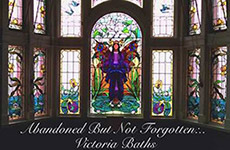
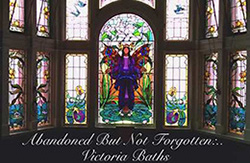
Finished Blog pages / optimised images.

diff --git a/index.html b/index.html
@@ -87,7 +87,7 @@
 
 <div class="divwrapper2">
 	<article id="skillset" class="div66width">
-		<div style="width:100%;">
+		<div>
 			<h2>Skill Set</h2>
 		</div>
 		
@@ -160,70 +160,121 @@
 
 <div class="divwrapper1">
 <article id="mywork" class="div66width"><!-- Start My Work -->
-		<div style="width:100%;">
+		<div>
 		<h2>My Work</h2>
 		</div>
 				
 				<div class="div33width">
 				<h4>Creative Digital Media (Documentary) - 2013</h4>
-				<a href ="https://www.youtube.com/watch?v=0nk_Ha1VQQA"><img src="images/video1.jpg" height="180" width="250" alt="A picture of the 'Lost but not forgotten' video." title="Documentary - Victoria Baths" /> </a>
-				</div>
-				
+				<a href ="https://www.youtube.com/watch?v=0nk_Ha1VQQA"><img src="images/mywork/video1.jpg"  alt="A picture of the 'Lost but not forgotten' video." title="Documentary - Victoria Baths" /> </a>
+				</div>				
 				<div class="div33width">
 				<h4>Creative Digital Media (Documentary) - 2014</h4>
-				<a href ="https://www.youtube.com/watch?v=aJigK_WToX8"><img src="images/video2.jpg" height="180" width="250" alt="A picture of the 'Life Disconnected' video." title="Documentary - Life Disconnected." /> </a>
+				<a href ="https://www.youtube.com/watch?v=aJigK_WToX8"><img src="images/mywork/video2.jpg"  alt="A picture of the 'Life Disconnected' video." title="Documentary - Life Disconnected." /> </a>
 				</div>
 				<div class="div33width">
 				<h4>Creative Digital media (Image Editing) - 2015</h4>
-				<a href ="http://mosesmartin.co.uk/uniwork/cdmpacw2/"><img src="images/cdmpacw2.jpg" height="180" width="250" alt="A surrealist art piece, create by Moses Martin" title="Creative Digital Media 2015" /> </a>
+				<a href ="http://mosesmartin.co.uk/uniwork/cdmpacw2/"><img src="images/mywork/cdmpacw2.jpg"  alt="A surrealist art piece, create by Moses Martin" title="Creative Digital Media 2015" /> </a>
 				</div>
 				<div class="div33width">
 				<h4>Developing Infocomms (Info Website) - 2015</h4>
-				<a href ="http://mosesmartin.co.uk/uniwork/dip/"><img src="images/dip.jpg" height="180" width="250" alt="A Screenshot of My Developing InfoComms Project I helped create" title="Developing Information Communications 2015" /> </a>
+				<a href ="http://mosesmartin.co.uk/uniwork/dip/"><img src="images/mywork/dip.jpg"  alt="A Screenshot of My Developing InfoComms Project I helped create" title="Developing Information Communications 2015" /> </a>
 				</div>
 				<div class="div33width">
 				<h4>Web Development Project (Course Information) - 2015</h4>
-				<a href ="http://mosesmartin.co.uk/uniwork/webdev/"><img src="images/webdev1.jpg" height="180" width="250" alt="A Screenshot of My Web Development project I coded." title="Website Development 2015" /> </a>
+				<a href ="http://mosesmartin.co.uk/uniwork/webdev/"><img src="images/mywork/webdev1.jpg"  alt="A Screenshot of My Web Development project I coded." title="Website Development 2015" /> </a>
 				</div>
 				<div class="div33width">
 				<h4>SQL Database Website With Login</h4>
-				<a href ="http://mosesmartin.co.uk/uniwork/sqlwebsite"><img src="images/sql.jpg" height="180" width="250" alt="A Screenshot of My Web Development project I coded." title="Website Development 2015" /> </a>
+				<a href ="http://mosesmartin.co.uk/uniwork/sqlwebsite"><img src="images/mywork/sql.jpg"  alt="A Screenshot of My Web Development project I coded." title="Website Development 2015" /> </a>
 				</div>
 				<div class="div33width">
 				<h4>Advanced Propulsion Centre</h4>
-				<a href ="http://mosesmartin.co.uk/freelance/apc"><img src="images/apc.jpg" height="180" width="250" alt="A Screenshot of My Web Development project I coded." title="Website Development 2015" /> </a>
+				<a href ="http://mosesmartin.co.uk/freelance/apc"><img src="images/mywork/apc.jpg"  alt="A Screenshot of My Web Development project I coded." title="Website Development 2015" /> </a>
 				</div>
 				<div class="div33width">
 				<h4>EMS Piano - Manchester</h4>
-				<a href ="http://emspianomanchester.co.uk/"><img src="images/emspiano.jpg" height="180" width="250" alt="A Screenshot of My Web Development project I coded." title="Website Development 2015" /> </a>
+				<a href ="http://emspianomanchester.co.uk/"><img src="images/mywork/emspiano.jpg"  alt="A Screenshot of My Web Development project I coded." title="Website Development 2015" /> </a>
 				</div>
 				<div class="clear"></div>
 </article>
 </div>
 
+<!-- Blog -->
+
 <div class="divwrapper2">
 <article id="blog" class="div66width">
-	<div style="width:100%;">
-		<h2>Blog</h2>
+	<div>
+		<h2>Blog Posts</h2>
 	</div>
 	<div class="blogflex">
-		<div class="blogcell">
+		<div class="blogcell" id="gridsetblog">
 			<img src="images/gridset.jpg" alt="My gridset report" />
 		</div>
-		<div class="blogcell2">			
-				<h3>Portfolio<br>Blog</h3>
+		<div class="blogcell" id="portfolioblog">			
+			<img src="images/portfolio.png" alt="My Portfolio Blog" />
 		</div>
 	</div>
 	
 </article>
 </div>
 
+<div class="blogpost" id="blogpost1">
+	
+	<div class="gridsetblog">
+		<div class="popupclose">
+			<img src="images/close.png" alt="Exit blog" />
+		</div>
+		<div class="blogtemplate">
+			<h2>Responsive Web Design</h2>
+			<img src="images/gridset.jpg" alt="My gridset report" />
+			<p>“The use of mobile devices to surf the web is growing at an astronomical pace, but unfortunately much of the web isn't optimized for those mobile devices. Mobile devices are often constrained by display size and require a different approach to how content is laid out on screen.” (Responsive web design basics | Web Fundamentals - <a href="https://developers.google.com/web/fundamentals/design-and-ui/responsive/fundamentals/?hl=en">Google Developers</a>, 2014) Ever since responsive design first appeared, Google have been dominating the market with which standards to comply to, this is mainly down to it being the largest internet search engine in existence, which means that they can dictate what websites they prioritise and penalise due to certain coding methods.</p>
+			<p>A good example of how they’ve abused this power is their recent announcement “Mobilegeddon”. “Mobilegeddon” is a new Google standard that dictates that any website that isn’t responsive, is penalised in search rankings for mobile devices; therefore, it’s safe to say that In this day and age responsive design is one of the base fundamentals of website design.</p>
+			<p>As a responsive website is fundamental, company’s such as Gridset offer a responsive grid system to allow people to achieve this. Gridset conducted their own survey that seems to add weight to the claim off Google, out of the 1014 people that answered their survey, “Front-end developers (33%) grew the most over the last year with an increase of 10%, representing the largest change amongst the roles, and the only group reported in 2013 that increased in 2014.” (<a href="2014.report.gridsetapp.com">2014.report.gridsetapp.com</a>, 2015) with these figures in mind, it’s safe to say that Gridset aren’t the only people to realise the importance of responsive design. I have absolutely no doubt that these statistics are 100% true, the reason I say this is because I am also one of those people who has switched from another role in to the front end developer role, more specifically, I switched from wanting to be a developer to being a hybrid of developer and designer.</p>
+			<p>Responsive design was first featured in 2001 by <a href="http://audi.com">Audi.com</a>, in which they created a website that responded to the browsers width. This revolutionised how websites are made and opened a whole new door in to the development world. By early 2009 to 2010 CSS3 media queries had been defined by were almost ready to be integrated in to the web development world and by 2011 the first guide was made on how to put these media queries in to practice. This then became an actual W3C recommended standard on the 19th of June 2012, shortly after all browsers had integrated compatibility with said code.</p>
+			<p>14 years later, we now have tools that aid the creation of responsive websites; namely we have Gridset (obviously) and frameworks such as bootstrap and foundation 5 which both have browser-width responsive grid layouts. With said tools you can now create responsive websites without even touching the cascading style sheet (CSS), for example, Bootstrap imports its own predefined CSS which already has the device breakpoints coded. Although the CSS for Bootstrap has already been defined it doesn’t mean that you aren’t able to edit it, this can be done by simply overriding the current CSS. Although I no longer use HTML/CSS frameworks when coding websites I have found that they have taught me a large array of skills, for example, through the use of bootstrap I’ve learnt how to use CSS3 media queries, build basic grid layouts and its also given me a good overview of CSS in general.</p>
+			<p>In conclusion of my findings I believe that responsive design is the ONLY way forward, and although companies do develop tools to help us create responsive websites, they can’t keep up with how fast the industry is growing, which therefore leads me to conclude that responsive design is best kept to the basics (being HTML5 and CSS3), by doing this you’ll save yourself a lot of time and effort that you might of invested in to development tools.</p>
+			<h4>Bibliography</h4>
+			<p>2014.report.gridsetapp.com, (2014). Gridset • Responsive Report 2014. [online] Available at: <a href="http://2014.report.gridsetapp.com/#">http://2014.report.gridsetapp.com/#</a> [Accessed 12 Nov. 2015].</p>
+			<p>Responsive web design basics | Web Fundamentals - Google Developers, (2014). Responsive web design basics | Web Fundamentals - Google Developers. [online] Available at: <a href="http://bit.ly/1SAH30i">http://bit.ly/1SAH30i</a> [Accessed 12 Nov. 2015].</p>
+		</div>
+	</div>
+</div>
+
+<div class="blogpost" id="blogpost2">
+	<div class="portfolioblog">
+		<div class="popupclose">
+			<img src="images/close.png" alt="Exit blog" />
+		</div>
+		<div class="blogtemplate">
+		<h2>The steps taken to build my Portfolio</h2>
+		<p>Building my Portfolio was never going to be an easy task, however, in today’s world there are tools out there which simplify and shorten the time taken to create a fully responsive website. In this blog post I’ll go into the exact route that I used to research, design, build and launch my portfolio.</p>
+		<p>From start to finish my portfolio took me 2 full days of coding, followed by a few additional hours for those final tweaks. Although this doesn’t sound like a realistic time scale, I already had a portfolio prior to this which had the basic design cracked along with the typical functionality of my current website, this gave me a good head start with the creation as I knew exactly what I wanted my website to look like and what other features I needed to add. </p>
+		<p>Originally my portfolio was created using Bootstrap;  a grid based “HTML, CSS, and JS framework for developing responsive, mobile first projects on the web” (<a href="Getbootstrap.com">Getbootstrap.com</a>, 2015) solely because it was the easy method to create a fully responsive website. However, after just a few months of coding using only HTML and CSS I felt that bootstrap was a little restrictive in the design field which led to the conclusion that I’ll recode my website removing the bootstrap element of it and replacing it with just HTML5, CSS and some custom made JavaScript’s that I’ve made.</p>
+		<p>After spending a few hours recoding my website to just HTML5 and CSS I then started to work on the more practical functions that HTML5 has to offer. To start with I updated my grid layout from the old method which used multiple media queries to make them drop below one another as the screen gets smaller, to HTML5’s new method Flex box. I chose to do this because Flex Box was “designed to give the container the ability to alter its items' width/height” (<a href="Css-tricks.com">Css-tricks.com</a>, 2015) which meant that I could shorten the amount of CSS used. By doing this it has enhanced the user experience with its overall smoother responsive layout.</p>
+		<p>Second to finishing the Flex box method I then had to start on creating a responsive navigation bar for my portfolio as the navigation prior to this was a bootstrap template. Now having had a bit of experience with using media queries and Javascript I decided to put my knowledge to the test which resulted in my first attempt; having two separate menu’s, one for the desktop and one for the mobile, then through the use of  media queries I hid the desktop navigation bar and showed the mobile navigation bar. This was okay for a while but after doing further research this method turned out to have a big restraint; If the user was using a screen reader it would display duplicate links, which would result in being penalised for accessibility. </p>
+		<p>With this in mind I then set out to remove the duplicate menu and only have one set of links. To do this was quite a task, as although I could just switch styles using media queries, I also wanted to include a Jquery script that switched styles when scrolling past a certain point. This was where it started to get complicated as I had to have it switch styles when 1. The width was below 768px and 2. when the user scrolls past a certain point. After searching how to do this on Google one of the first results that turned up was a link to Stackoverflow; a huge online forum where you can ask people questions about how to do a certain piece of code. It was here where I found out the code required and from there it was a matter of trial and error until I got it right.</p>
+		<p>The next thing on my to do list was to look into CSS3 transitions in order to add a bit of user interaction and to keep the user more interested in my website. My first port of call was to search it up on Google, which quickly took me to the CSS-Tricks website which gave me an overview on how to add a transition, then I just went to town with adding little transitions on hover to certain elements of my website.</p>
+		<p>This just left one more element that I had to add; the PHP contact form. This was a relatively easy one as all I had to do was add a contact form that I’ve made in the past and just restyle it to match my portfolio’s design.</p>
+		<p>This just left one last thing to do, launch the website on to the internet, for the world to see. Again this was relatively easy for me as I’ve had a lot of past experience with hosting websites, which meant that I knew exactly what needed to be done to host it. To summarise it in a sentence; I signed up to <a href="34SP.com">34SP.com</a> using the MMU promo code, then I went to the file manager and uploaded the website straight to their servers. As my domain name was already added through the sign up I had no need to switch the name servers or make any additional changes.</p>
+
+		<h4>Bibliography</h4>
+		<p>Css-tricks.com, (2015). [online] Available at: <a href="http://bit.ly/1xEYMhF">http://bit.ly/1xEYMhF</a> [Accessed 15 Nov. 2015].</p>
+		<p>Css-tricks.com, (2013). CSS Transitions. [online] Available at: <a href="http://bit.ly/1OdUCSv">http://bit.ly/1OdUCSv</a> [Accessed 15 Nov. 2015].</p>
+		<p>Getbootstrap.com, (2015). Bootstrap • The world's most popular mobile-first and responsive front-end framework. [online] Available at: <a href="http://getbootstrap.com/">http://getbootstrap.com/</a> [Accessed 15 Nov. 2015].</p>
+		<p>Stackoverflow.com, (2012). Change CSS element with JQuery when scroll reaches an anchor point. [online] Available at: <a href="http://bit.ly/1MTqVT0">http://bit.ly/1MTqVT0</a> [Accessed 15 Nov. 2015].</p>
+
+		</div>
+		
+	</div>
+</div>
+
 <!-- Contact -->
 <div class="divwrapper1">
 	<article class="div66width" id="contact"> 
-		<div style="width:100%; text-align:center;">
-		<h2>Contact</h2>
-		<p> If you would like to get in contact with me please find all the necessary links and online profiles below. </p>
+		<div>
+			<h2>Contact</h2>
+			<p>If you would like to get in contact with me please find all the necessary links and online profiles below.</p>
 		</div>
 			
 			
@@ -237,7 +288,7 @@
 				
 				<a href="http://mosesmartin.co.uk/images/cv.docx"><img src="images/icons/cv.jpg" alt="Download my Curriculum Vitae" /></a>
 			
-			</article> 
+	</article> 
 </div>
 <footer class="disclaimer">
     <p>Copyright &copy; Moses Martin 2015-</p>

diff --git a/css/custom.css b/css/custom.css
@@ -288,7 +288,9 @@ text-align:center;
 margin:0 auto;
 }
 .div33width img {
-max-width:260px;
+width:100%;
+max-width:250px;
+height:auto;
 margin:0 auto;
 display:block;
 }
@@ -346,7 +348,13 @@ margin:0 auto;
 	
 
 /* Content Areas */
-
+article > div:first-child {
+	width:100%;
+	text-align:center;
+}
+article > div:first-child  p{
+	font-size:1.2em;
+}
 #about {
 	margin-top:0px;
 	margin-bottom:0px;
@@ -445,38 +453,94 @@ margin-bottom: 10px;
 }
 .blogcell, .blogcell2 {
     width: 40%;
+	max-width:350px;
 }
 @media(max-width:600px) {
 	.blogcell, .blogcell2 {
 	width:100%;
-	max-width:400px;
+	max-width:300px;
 	margin-top:20px;
 	}
 }
 .blogcell img {
-	width:100%;
+	width:90%;
 	height:auto;
 	display:block;
 	margin:0 auto;
+	transition:all 0.7s ease;
+-webkit-transition-delay:all 0.7s ease;
+-moz-transition-delay:all 0.7s ease;
+-ms-transition-delay:all 0.7s ease;
+-o-transition-delay:all 0.7s ease;
 }
-.blogcell2 {
-	display: flex;
-	text-align:center;
-	background:white;
-	justify-content: center;
-	align-items: center;
-}
-.blogcell2 h3 {
-	margin:0px;
-	font-size:3em;
-	font-family:Montserrat, 'Helvetica Neue',Helvetica,Arial,sans-serif;
-	display:block;
-	height:100%;
+.blogcell img:hover {
 	width:100%;
+	cursor:pointer;
+	transition:all 0.7s ease;
+	box-shadow: 0px 0px 30px grey;
+-webkit-transition-delay:all 0.7s ease;
+-moz-transition-delay:all 0.7s ease;
+-ms-transition-delay:all 0.7s ease;
+-o-transition-delay:all 0.7s ease;	
 }
-
-  
-
+.blogpost {
+	display:none;
+	width:100%;
+	height:100%;
+	position:fixed;
+	top:0;
+	left:0;
+	z-index:100;
+	background: rgba(0,0,0,0.5);
+}
+.blogtemplate {
+	overflow:auto;
+	height:100%;
+	padding:20px 0px 20px 35px;
+}
+.blogtemplate img {
+	display:block;
+	margin:0 auto;
+}
+.blogtemplate h2{
+	text-align:center;
+	font-family: montserrat, Helvetica, sans-serif;
+	font-size:2em;
+}
+.popupclose {
+	float: right;
+    padding-top: 10px;
+    padding-right: 10px;
+    height: auto;
+    cursor: pointer;
+}
+.popupclose  img {
+	height:30px;
+	width:30px;
+}
+.gridsetblog, .portfolioblog {
+	background: rgba(255,255,255,1);
+	width:100%;
+	max-width:850px;
+	height:100%;
+	margin:0 auto;
+}
+/*
+@media(max-width:1366px) {
+	.gridsetblog, .portfolioblog {
+		width:80%;
+	}	
+}
+@media(max-width:1088px) {
+	.gridsetblog, .portfolioblog {
+		width:90%;
+	}	
+}
+@media(max-width:970px) {
+	.gridsetblog, .portfolioblog {
+		width:100%;
+	}	
+}*/
 #contact {
 	max-height:100%;
 	margin-top: 0px;

diff --git a/js/script.js b/js/script.js
@@ -83,3 +83,21 @@ var $w = $(window).scroll(function(){
         $('button.navtoggle').css({"margin":""});
     }
 });
+
+/* Blog posts */ 
+
+$(document).ready(function(){
+    $("#gridsetblog").click(function(){
+        $('#blogpost1').show();
+    });
+});
+$(document).ready(function(){
+    $("#portfolioblog").click(function(){
+        $('#blogpost2').show();
+    });
+});
+$(document).ready(function(){
+    $(".popupclose").click(function(){
+        $('.blogpost').hide();
+    });
+});
